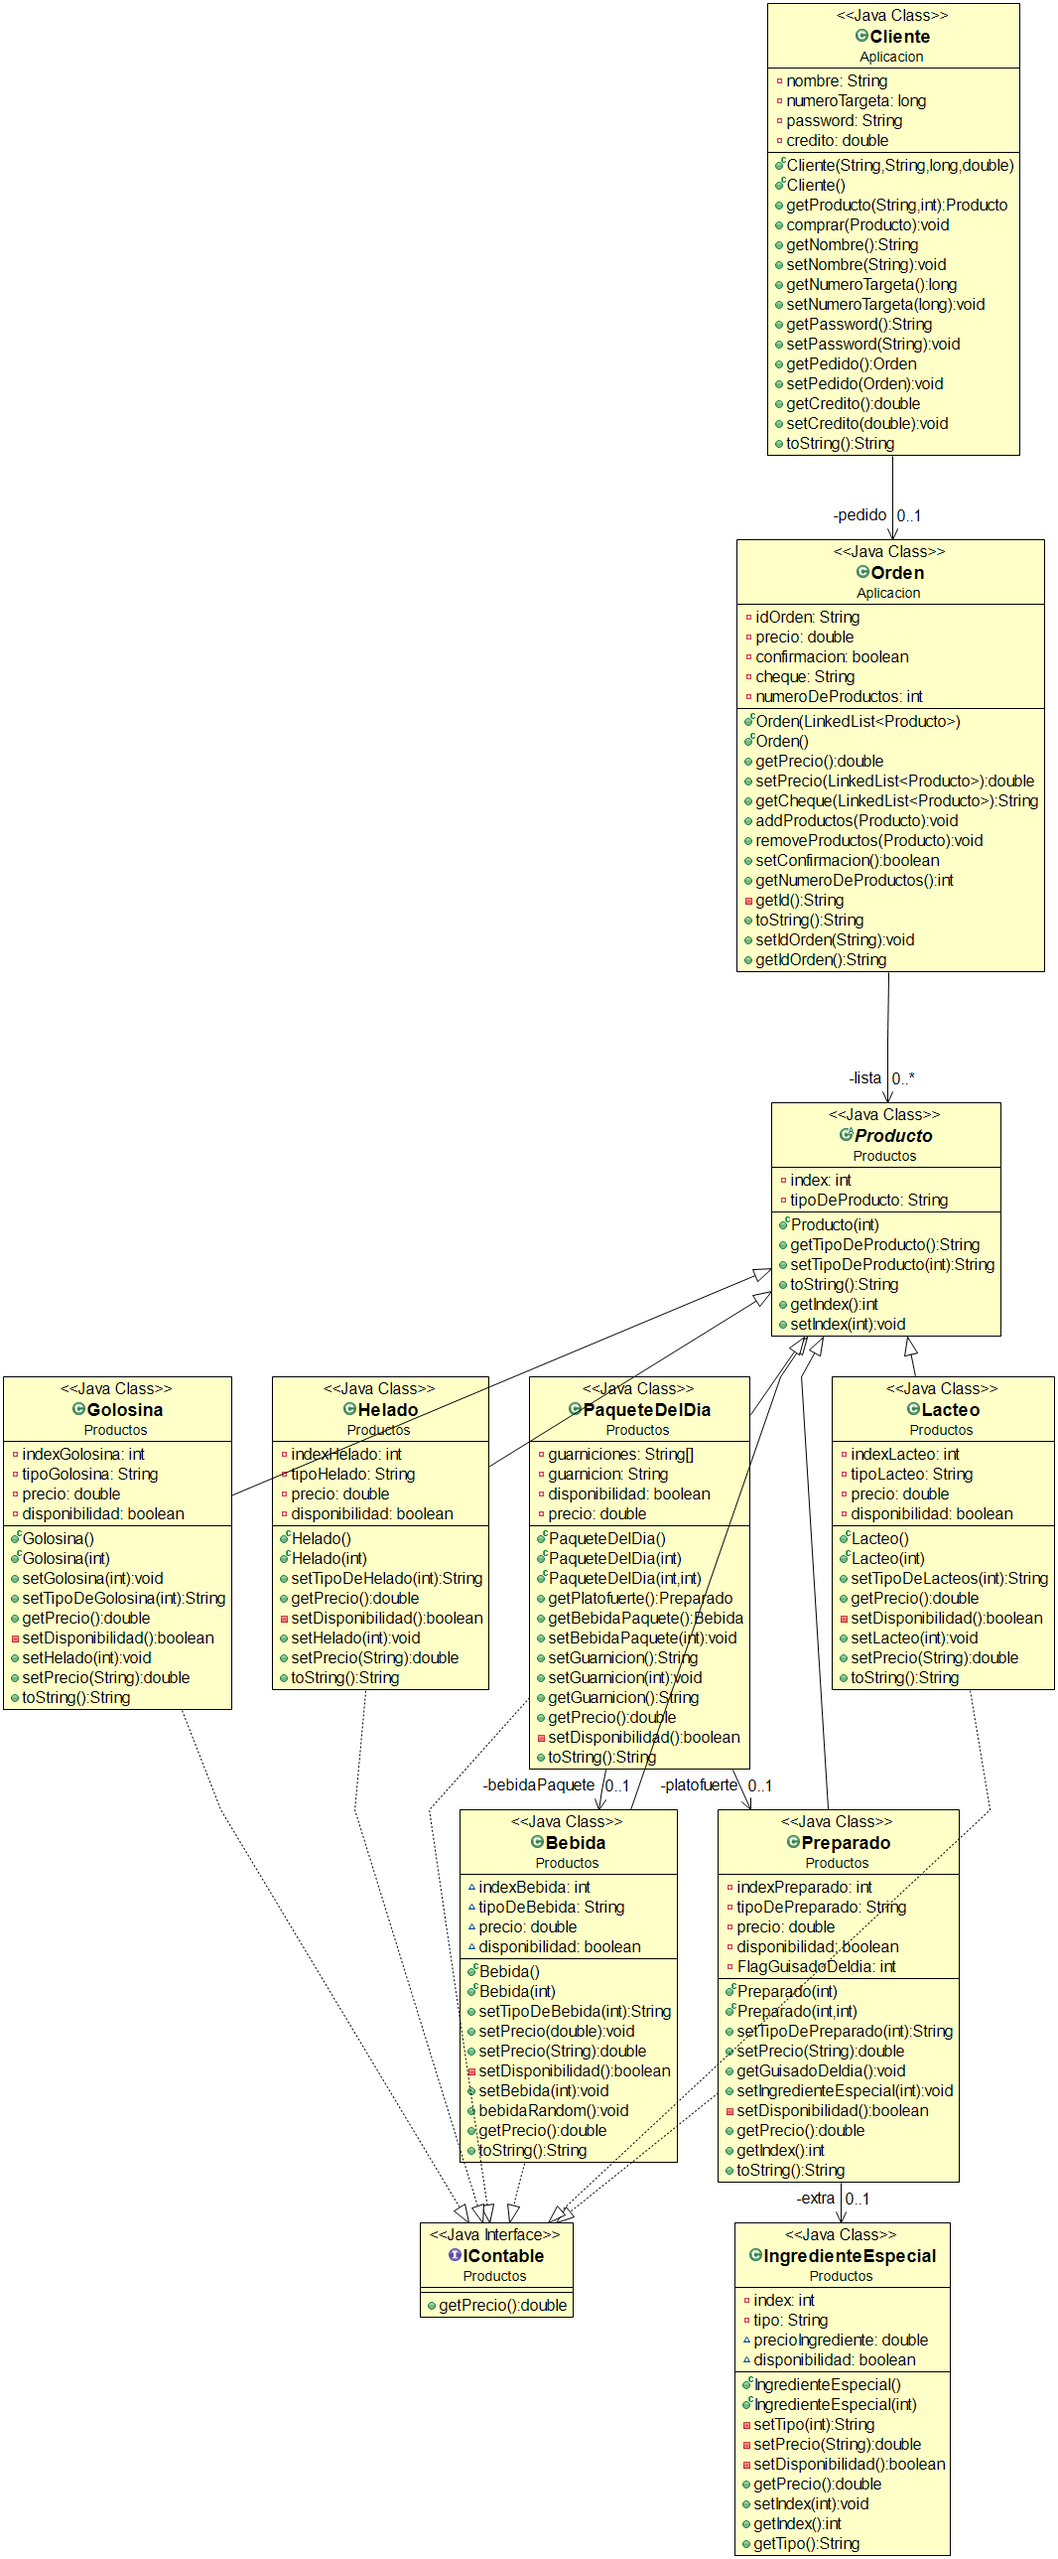
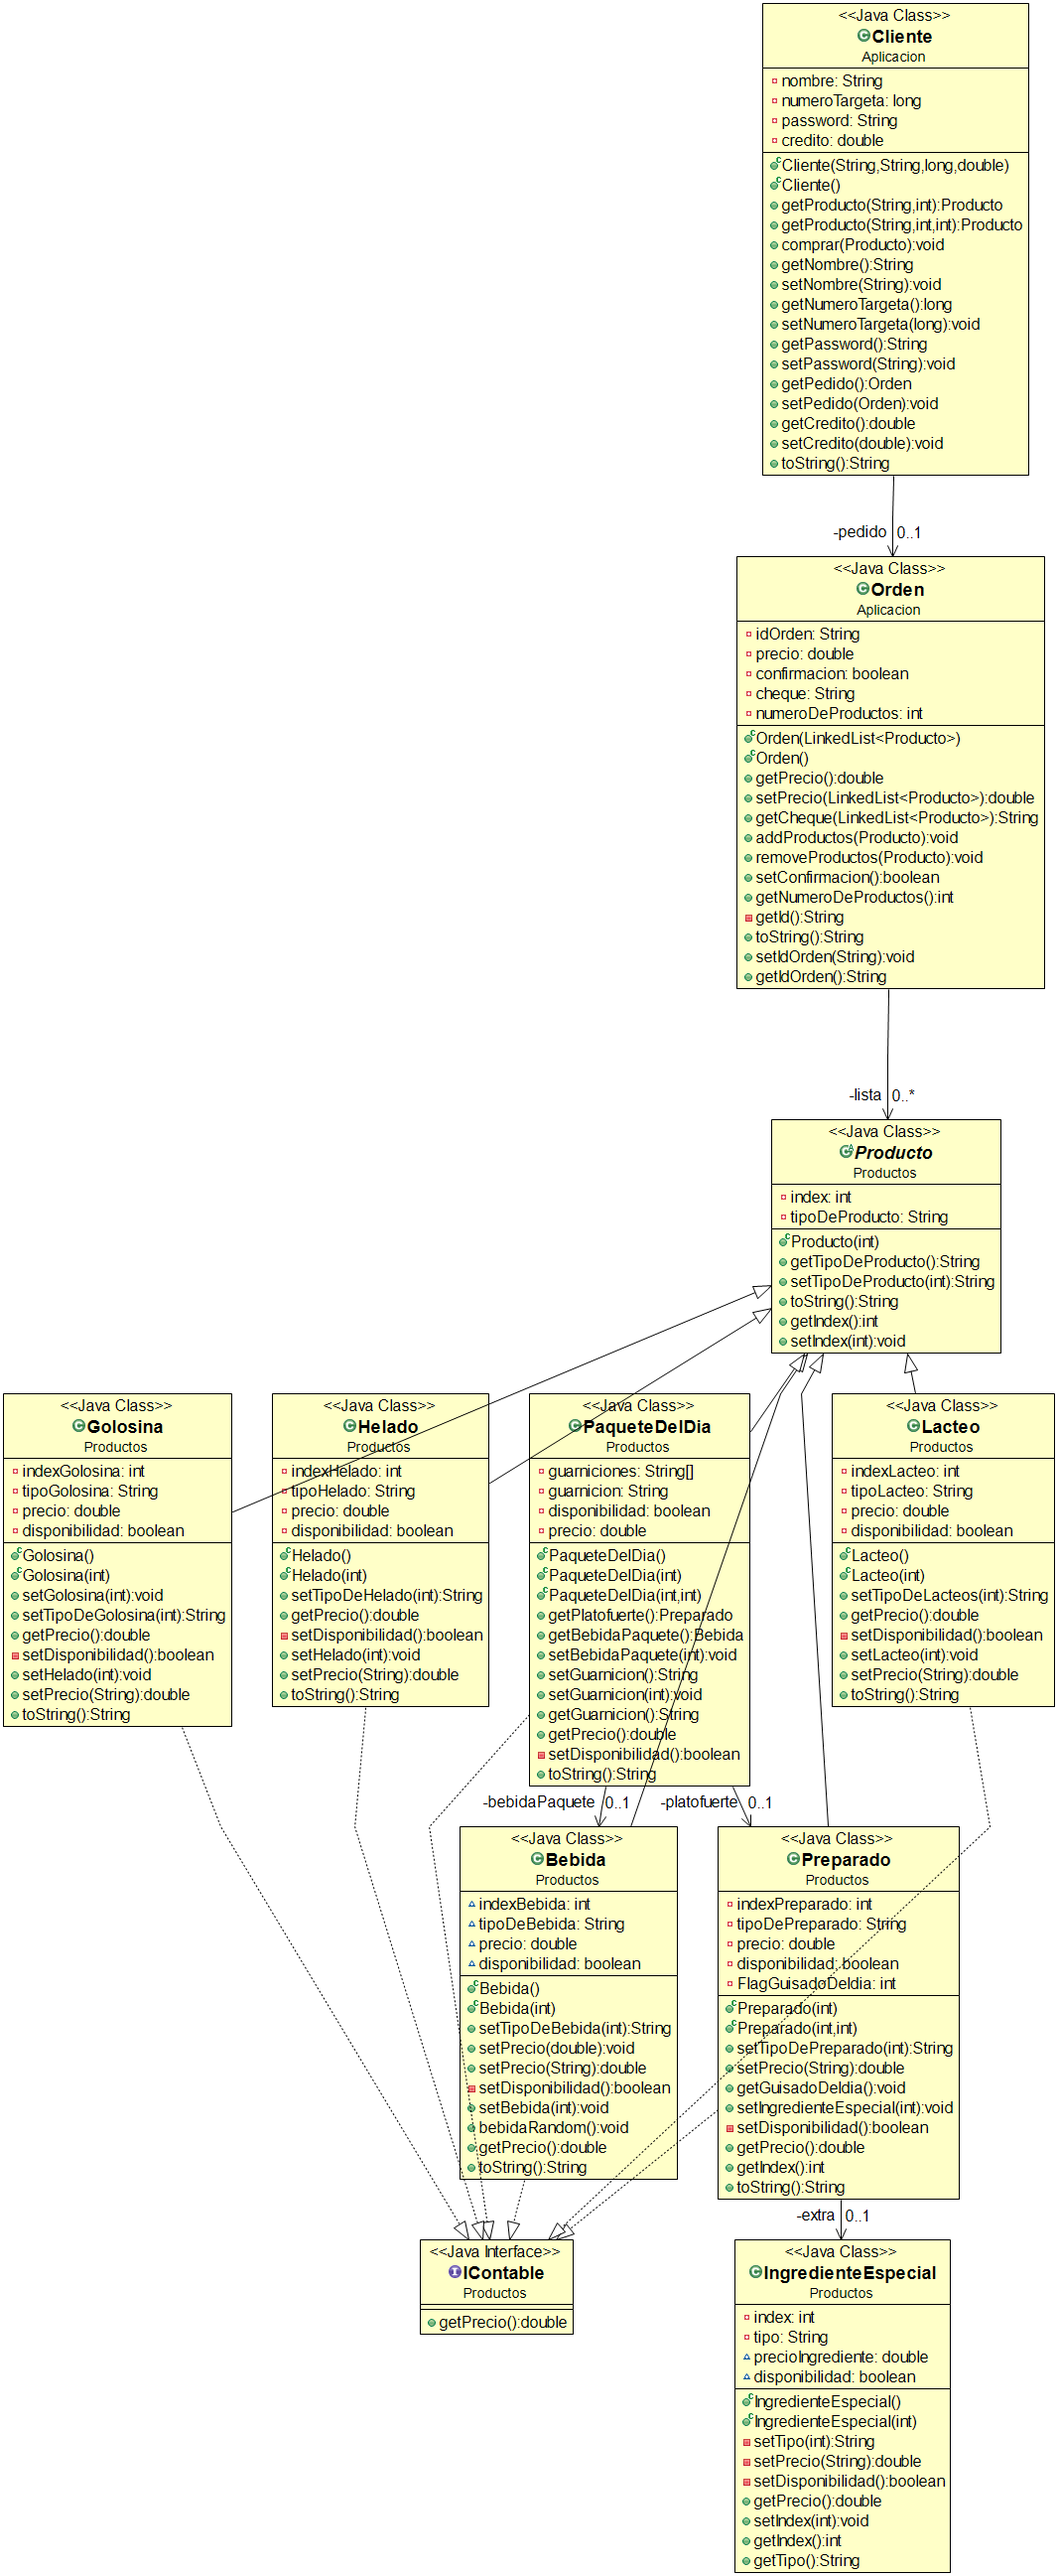
Fixeado metodo getproducto y sobrecargado para productos especificados(paquete del dia y preparado), actualizado diagrama de clases

Changed region(s): [[0.4024, 0.0, 0.9906, 0.9934], [0.0, 0.5277, 0.2167, 0.683], [0.2477, 0.5277, 0.4644, 0.683]]

diff --git a/Proyecto SCE/src/Aplicacion/Cliente.java b/Proyecto SCE/src/Aplicacion/Cliente.java
@@ -38,16 +38,41 @@ public class Cliente {
             break;
         case "Paquete del dia":
             if (idx == 0) {
-                p = new Lacteo();
+                p = new PaqueteDelDia();
             } else {
-                p = new Lacteo(idx);
+                p = new PaqueteDelDia(idx);
             }
             break;
         case "Preparado":
-
+            p = new Preparado(idx);
             break;
-
         default:
+            break;
+        }
+        return p;
+    }
+
+    public Producto getProducto(String cual, int idx, int es) {
+        Producto p = null;
+        switch (cual) {
+        case "Paquete del dia":
+            if (idx == 0) {
+                p = new PaqueteDelDia();
+            } else if (es == 0) {
+                p = new PaqueteDelDia(idx);
+            } else {
+                p = new PaqueteDelDia(idx, es);
+            }
+            break;
+        case "Preparado":
+            if (es == 0) {
+                p = new Preparado(idx);
+            } else {
+                p = new Preparado(idx, es);
+            }
+            break;
+        default:
+            System.out.println("lo sentimos esos porductos no se pueden personalizar");
             break;
         }
         return p;
@@ -57,7 +82,7 @@ public class Cliente {
         if (numeroTargeta != 0) {
             if (credito > 0) {
                 pedido.addProductos(e);
-                credito-=pedido.getPrecio();
+                credito -= pedido.getPrecio();
             } else {
                 System.out.println("lo sentimos credito ecxedido");
             }
